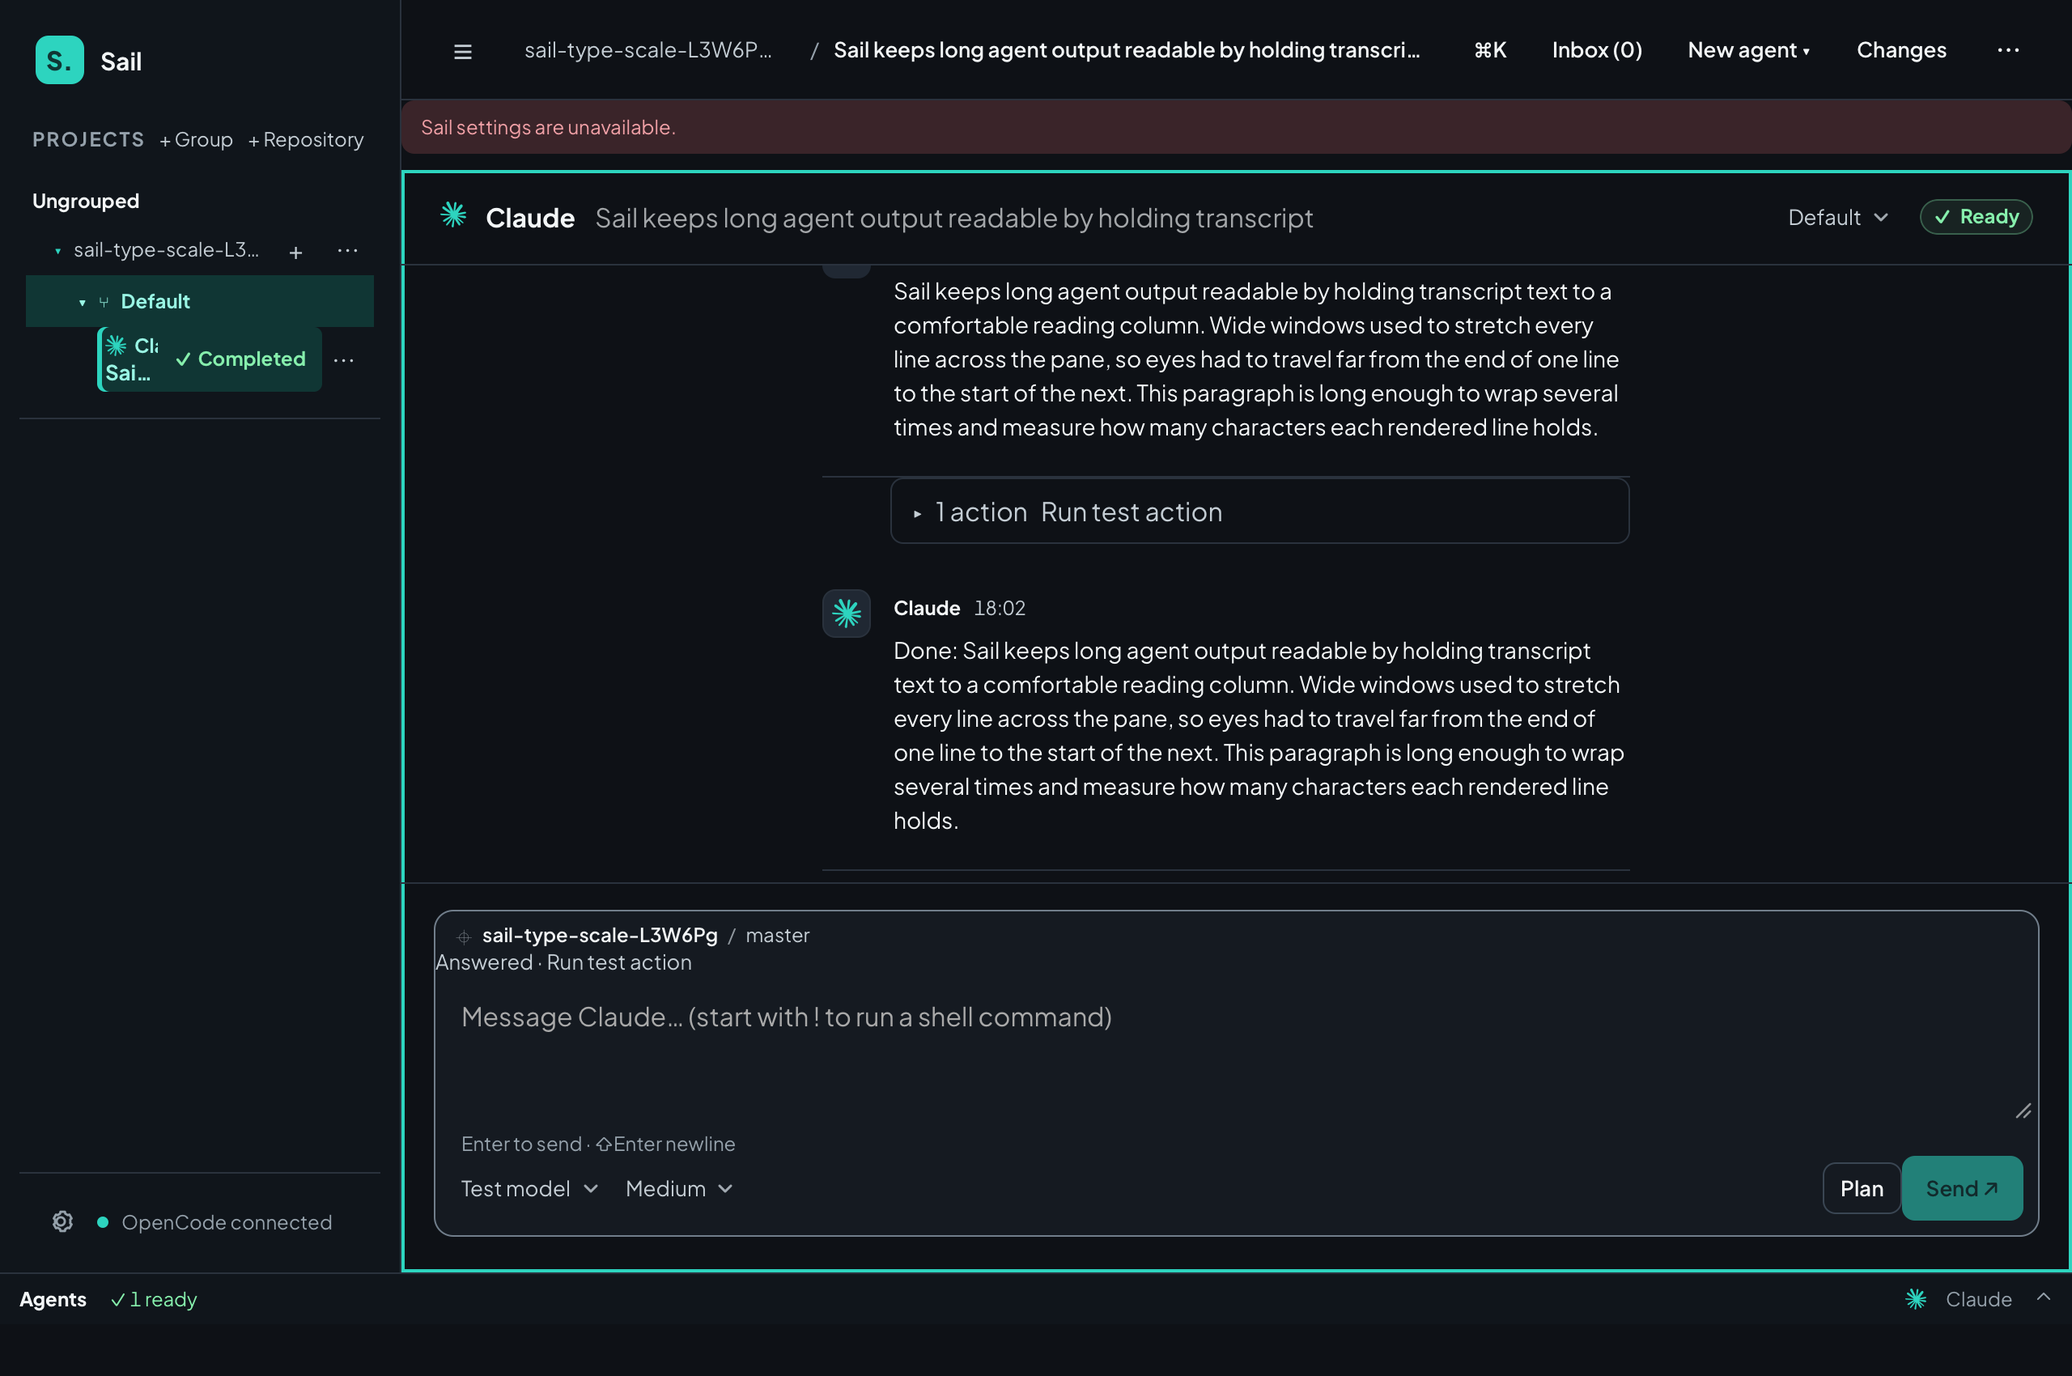
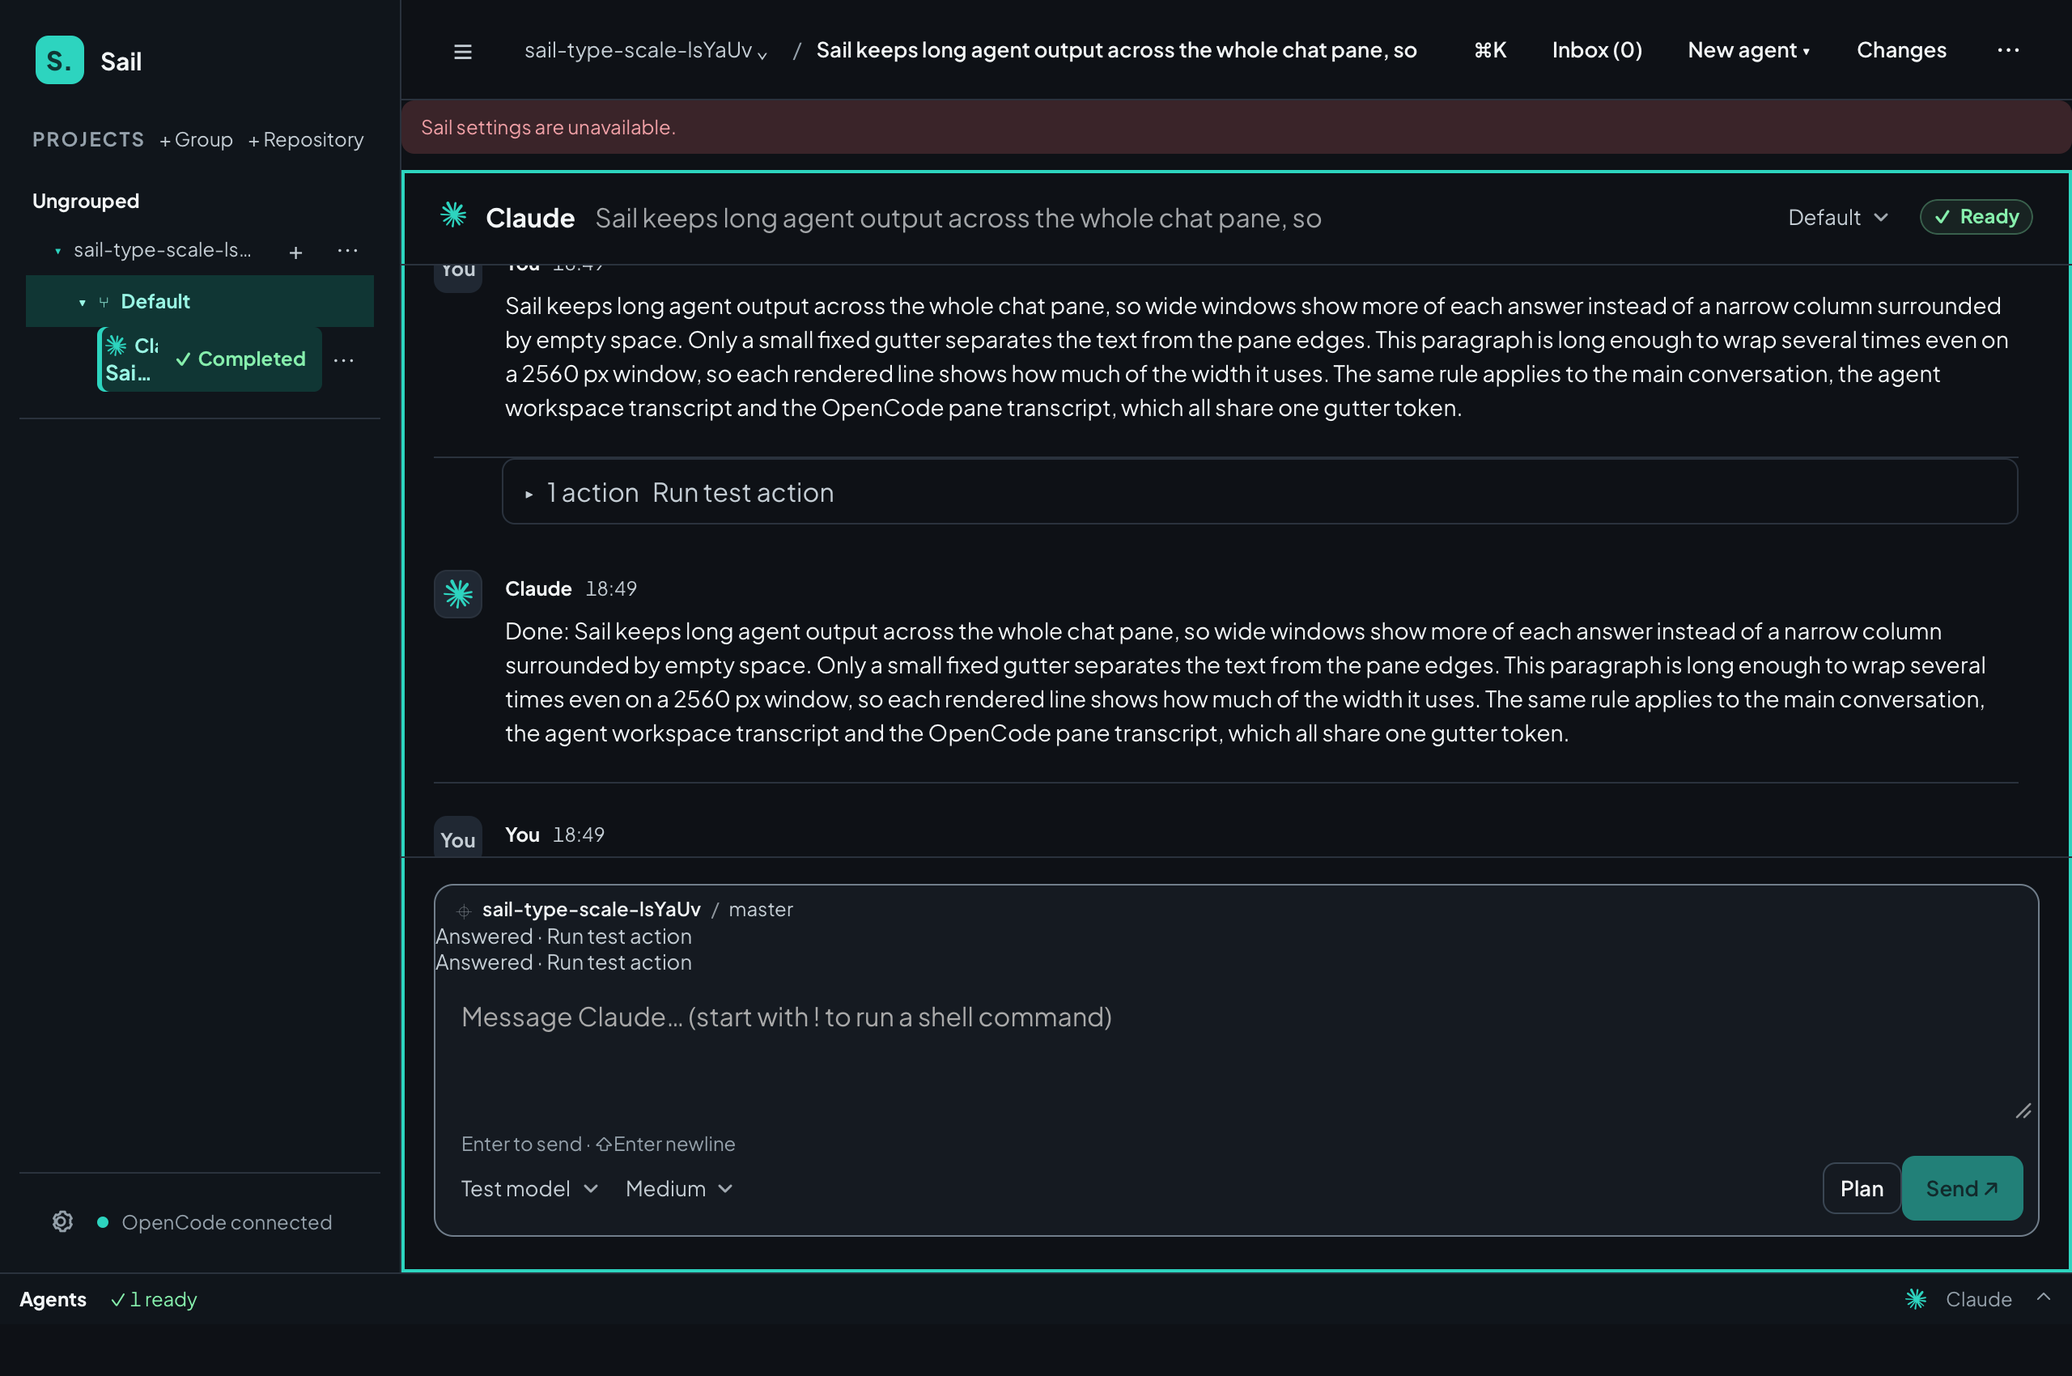
docs(docs): add full-width chat screenshots
Replace the reading column captures and add 1920 and 2560 px views in
light and dark. The display capped window height at 1130 px.

diff --git a/docs/visual-audit/README.md b/docs/visual-audit/README.md
@@ -4,19 +4,19 @@ Run `SAIL_VISUAL_AUDIT_DIR=/tmp/sail-visual-audit mise exec -- npm run test:e2e`
 
 ## Captured views
 
-| Area               | Screenshots                                                                                                                                                                                                                                                                                                                                                                                                                                                                                                                |
-| ------------------ | -------------------------------------------------------------------------------------------------------------------------------------------------------------------------------------------------------------------------------------------------------------------------------------------------------------------------------------------------------------------------------------------------------------------------------------------------------------------------------------------------------------------------- |
-| Project navigation | [Desktop sessions](screenshots/1280x850-sessions.png), [mobile sessions](screenshots/320x500-sessions.png), [group form](screenshots/desktop-group-form.png), [group menu](screenshots/desktop-group-menu.png)                                                                                                                                                                                                                                                                                                             |
-| Chat and worktrees | [Desktop chat](screenshots/1280x850-chat.png), [mobile chat](screenshots/320x500-chat.png), [worktree dialog](screenshots/1280x850-worktree-dialog.png), [small window dialog](screenshots/320x500-worktree-dialog-bottom.png), [worktree menu](screenshots/desktop-worktree-menu.png)                                                                                                                                                                                                                                     |
-| Settings window    | [General](screenshots/desktop-general-settings.png), [OpenCode](screenshots/desktop-opencode-settings.png), [repository diagnostics](screenshots/desktop-repository-diagnostics.png), [recovery controls](screenshots/desktop-repository-diagnostics-bottom.png), [agents](screenshots/desktop-agent-settings.png), [compact general](screenshots/compact-general-settings.png), [compact OpenCode](screenshots/mobile-opencode-settings.png), [compact diagnostics](screenshots/mobile-repository-diagnostics-bottom.png) |
-| ACP agent          | [New worktree thread](screenshots/desktop-worktree-agent-empty.png), [permission](screenshots/desktop-agent-permission.png), [conversation](screenshots/desktop-agent-conversation.png), [file changes](screenshots/desktop-agent-changes.png), [dark theme](screenshots/desktop-dark-changes.png), [mobile details](screenshots/mobile-dark-details.png)                                                                                                                                                                  |
-| Transcript         | [Grouped tools with avatars and times](screenshots/desktop-transcript-light.png), [permission card, light](screenshots/desktop-permission-light.png), [permission card, dark](screenshots/desktop-permission-dark.png)                                                                                                                                                                                                                                                                                                     |
-| Type and theme     | [Reading column, light](screenshots/1280x850-type-scale-light.png), [dark](screenshots/1280x850-type-scale-dark.png), [mobile light](screenshots/390x600-type-scale-light.png), [mobile dark](screenshots/390x600-type-scale-dark.png), [System theme following a light OS](screenshots/desktop-system-theme-light.png), [and a dark OS](screenshots/desktop-system-theme-dark.png), [System in settings](screenshots/settings-theme-system.png), [Ship run launch time](screenshots/ship-run-timestamp.png)               |
-| Split agent panes  | [Two panes](screenshots/desktop-agent-two-panes.png), [three panes](screenshots/desktop-agent-three-panes.png), [restored panes](screenshots/desktop-agent-restored-panes.png)                                                                                                                                                                                                                                                                                                                                             |
-| Subagents          | [Result card and live cards](screenshots/desktop-subagent-results.png), [OpenCode running and finished children](screenshots/desktop-opencode-subagents.png)                                                                                                                                                                                                                                                                                                                                                               |
-| Command palette    | [Search results](screenshots/desktop-command-palette-results.png), [empty results](screenshots/desktop-command-palette-empty.png)                                                                                                                                                                                                                                                                                                                                                                                          |
-| Ship runs          | [Grouped list](screenshots/ship-list-grouped.png), [grouped list, dark](screenshots/ship-list-grouped-dark.png), [drill-in detail](screenshots/ship-detail-drill-in.png), [split view](screenshots/ship-split-detail.png), [split view, dark](screenshots/ship-split-detail-dark.png)                                                                                                                                                                                                                                      |
-| Crowded data       | [Long desktop labels](screenshots/fuzz-14-1280-threads.png), [long mobile labels](screenshots/fuzz-15-320-threads.png)                                                                                                                                                                                                                                                                                                                                                                                                     |
+| Area               | Screenshots                                                                                                                                                                                                                                                                                                                                                                                                                                                                                                                                                                                                                                                                                                                                                   |
+| ------------------ | ------------------------------------------------------------------------------------------------------------------------------------------------------------------------------------------------------------------------------------------------------------------------------------------------------------------------------------------------------------------------------------------------------------------------------------------------------------------------------------------------------------------------------------------------------------------------------------------------------------------------------------------------------------------------------------------------------------------------------------------------------------- |
+| Project navigation | [Desktop sessions](screenshots/1280x850-sessions.png), [mobile sessions](screenshots/320x500-sessions.png), [group form](screenshots/desktop-group-form.png), [group menu](screenshots/desktop-group-menu.png)                                                                                                                                                                                                                                                                                                                                                                                                                                                                                                                                                |
+| Chat and worktrees | [Desktop chat](screenshots/1280x850-chat.png), [mobile chat](screenshots/320x500-chat.png), [worktree dialog](screenshots/1280x850-worktree-dialog.png), [small window dialog](screenshots/320x500-worktree-dialog-bottom.png), [worktree menu](screenshots/desktop-worktree-menu.png)                                                                                                                                                                                                                                                                                                                                                                                                                                                                        |
+| Settings window    | [General](screenshots/desktop-general-settings.png), [OpenCode](screenshots/desktop-opencode-settings.png), [repository diagnostics](screenshots/desktop-repository-diagnostics.png), [recovery controls](screenshots/desktop-repository-diagnostics-bottom.png), [agents](screenshots/desktop-agent-settings.png), [compact general](screenshots/compact-general-settings.png), [compact OpenCode](screenshots/mobile-opencode-settings.png), [compact diagnostics](screenshots/mobile-repository-diagnostics-bottom.png)                                                                                                                                                                                                                                    |
+| ACP agent          | [New worktree thread](screenshots/desktop-worktree-agent-empty.png), [permission](screenshots/desktop-agent-permission.png), [conversation](screenshots/desktop-agent-conversation.png), [file changes](screenshots/desktop-agent-changes.png), [dark theme](screenshots/desktop-dark-changes.png), [mobile details](screenshots/mobile-dark-details.png)                                                                                                                                                                                                                                                                                                                                                                                                     |
+| Transcript         | [Grouped tools with avatars and times](screenshots/desktop-transcript-light.png), [permission card, light](screenshots/desktop-permission-light.png), [permission card, dark](screenshots/desktop-permission-dark.png)                                                                                                                                                                                                                                                                                                                                                                                                                                                                                                                                        |
+| Type and theme     | [Full-width chat, light](screenshots/1280x850-type-scale-light.png), [dark](screenshots/1280x850-type-scale-dark.png), [2560 px light](screenshots/2560x1130-chat-width-light.png), [2560 px dark](screenshots/2560x1130-chat-width-dark.png), [1920 px light](screenshots/1920x1130-chat-width-light.png), [1920 px dark](screenshots/1920x1130-chat-width-dark.png), [mobile light](screenshots/390x600-type-scale-light.png), [mobile dark](screenshots/390x600-type-scale-dark.png), [System theme following a light OS](screenshots/desktop-system-theme-light.png), [and a dark OS](screenshots/desktop-system-theme-dark.png), [System in settings](screenshots/settings-theme-system.png), [Ship run launch time](screenshots/ship-run-timestamp.png) |
+| Split agent panes  | [Two panes](screenshots/desktop-agent-two-panes.png), [three panes](screenshots/desktop-agent-three-panes.png), [restored panes](screenshots/desktop-agent-restored-panes.png)                                                                                                                                                                                                                                                                                                                                                                                                                                                                                                                                                                                |
+| Subagents          | [Result card and live cards](screenshots/desktop-subagent-results.png), [OpenCode running and finished children](screenshots/desktop-opencode-subagents.png)                                                                                                                                                                                                                                                                                                                                                                                                                                                                                                                                                                                                  |
+| Command palette    | [Search results](screenshots/desktop-command-palette-results.png), [empty results](screenshots/desktop-command-palette-empty.png)                                                                                                                                                                                                                                                                                                                                                                                                                                                                                                                                                                                                                             |
+| Ship runs          | [Grouped list](screenshots/ship-list-grouped.png), [grouped list, dark](screenshots/ship-list-grouped-dark.png), [drill-in detail](screenshots/ship-detail-drill-in.png), [split view](screenshots/ship-split-detail.png), [split view, dark](screenshots/ship-split-detail-dark.png)                                                                                                                                                                                                                                                                                                                                                                                                                                                                         |
+| Crowded data       | [Long desktop labels](screenshots/fuzz-14-1280-threads.png), [long mobile labels](screenshots/fuzz-15-320-threads.png)                                                                                                                                                                                                                                                                                                                                                                                                                                                                                                                                                                                                                                        |
 
 The tests check viewport overflow, dialog actions, composer access, settings-window access, sidebar reachability, and the agent title/status boundary. Review of the captures found and fixed the narrow window composer, mobile settings placement, worktree dialog overflow, sidebar scrolling, and long agent title overlap.
 
